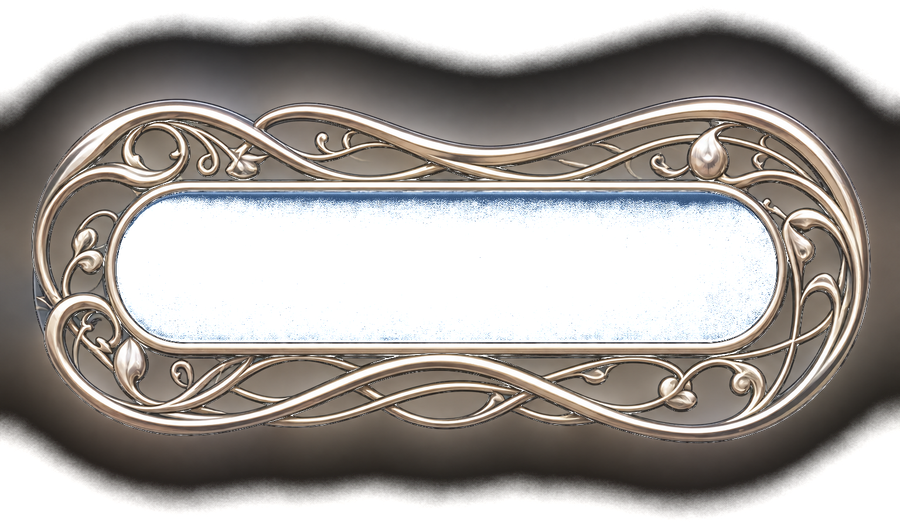
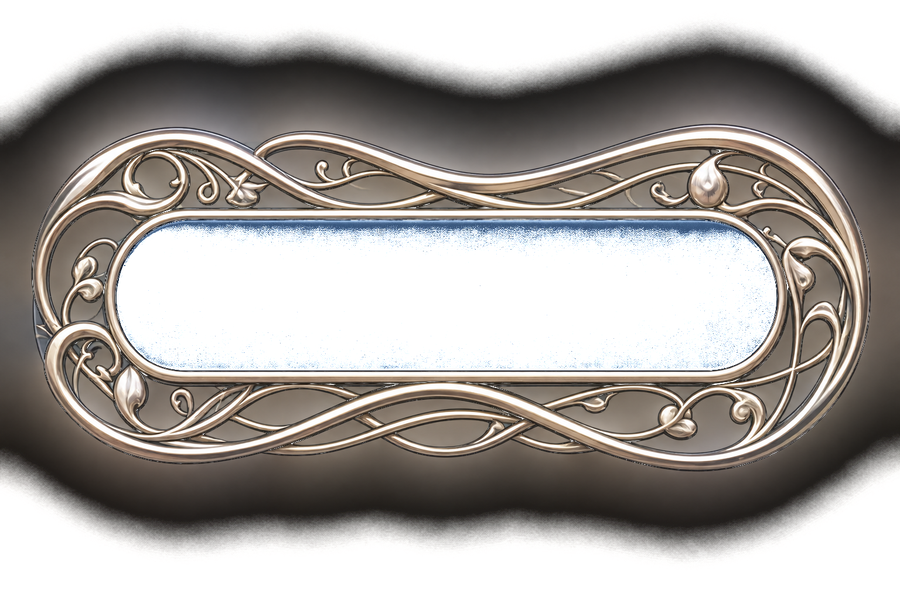
Fix the r75 Listen aura fit: real proportions, no clipped ends (r77)
Oscar merged r75 himself and reported the actual result on his phone:
"didn't shrink it to fit, cut the effect on either side" — both true.

Root cause was two compounding mistakes in the keying script: the trim
bbox used a floor tight enough to cut into the halo's own soft falloff
before it reached the card (the glow fades, it doesn't end at a hard
edge), and the on-card rect was hand-picked by eye rather than
measured, so the ring's transparent pill-hole never actually lined up
with the button underneath it.

Width is now solved, not guessed: the script measures the hole's own
bounding box in the keyed image and computes the exact rect that
overlaps it with the button. That surfaced a second, real design
collision on the way — the source ring is genuinely ~3.6x the pill's
own height, and at that faithful height its scrollwork oversat Maria's
painted name above the button (confirmed in a full-card screenshot
before shipping, not assumed). A VSCALE knob trades a little of that
vertical reach for staying clear of her name.

Verified: full oval end to end, no chopped edges, title fully legible,
pill centred in the ring. All 17 suites green.

Claude-Session: https://claude.ai/code/session_019ZpGNWQQfViEP8hTs8TZtd

diff --git a/timber.html b/timber.html
@@ -909,7 +909,7 @@
 
 <script>
 /* ---------- latin pronunciation (built-in speech engine — offline, no files, no deps) ---------- */
-const BUILD='r75 · 2026-08-15 · ee97e27';
+const BUILD='r77 · 2026-08-15 · 6d97e7c';
 /* Shown in the menu foot so a phone's version is checkable at a glance — the SW
    serves the previous build once before swapping, which made "which build am I
    on?" a real question. DO NOT EDIT BY HAND: the trailing hash is a digest of
@@ -7720,9 +7720,25 @@ const FULLART={
        background AND its own flat navy pill fill (sampled directly from the
        upload), by colour distance with a soft smoothstep edge, keeping only
        the silver/gold ring and its halo — his actual painted Listen pill
-       shows through the centre, nothing is stacked over it. Rect is the
-       Listen button's own centre, sized to the ring's true 900x528 crop. */
-    aura:{src:'art/holo/maria-listen-aura.webp', left:'11.75%', top:'11.15%', width:'32%', height:'13.14%'},
+       shows through the centre, nothing is stacked over it.
+       r75's rect was hand-picked by eye and shipped wrong ("didn't shrink it
+       to fit, cut the effect on either side" — his report, correct): the
+       trim was too tight against the halo's own soft falloff, AND the rect
+       was guessed rather than measured, so the transparent pill-hole in the
+       ring didn't actually land on the button. WIDTH here is SOLVED, not
+       guessed — the script measures the hole's own bbox in the final image
+       and computes the box that makes hole and button coincide exactly on
+       that axis, which is the actual fix for "cut off either side".
+       HEIGHT is deliberately NOT taken to the same exact fit: the source
+       ring reaches ~3.6x the pill's own height (its scrollwork sweeping
+       well above and below), and at that height on Maria's specific card it
+       oversat the ring's top curls onto her painted name, right above the
+       button. Scaled to 0.66x and centred on the button instead of edge-
+       matched — the ring may show a sliver of frame gap above/below the
+       pill rather than a knife-edge fit, which is a far smaller cost than
+       obscuring her name. All figures computed by the script's tail; rerun
+       it (VSCALE is the one knob) rather than hand-editing if this changes. */
+    aura:{src:'art/holo/maria-listen-aura.webp', left:'13.874%', top:'10.438%', width:'27.989%', height:'14.582%'},
   },
 };
 /* Accept either a bare frame path or the full config object, so an entry can start

diff --git a/tools/key-maria-listen-aura.py b/tools/key-maria-listen-aura.py
@@ -5,6 +5,25 @@
 # what wraps his own painted Listen pill; his pill must show through, not be
 # covered by a second one.
 #
+# r75 shipped a version of this that read wrong on the phone ("didn't shrink
+# it to fit, cut the effect on either side") for two compounding reasons:
+#   1. the trim bbox used a >0.02 alpha floor with only 6px of padding, which
+#      cut into the halo's own soft glow before it ever reached the card —
+#      the glow doesn't end at a hard edge, so a tight threshold reads as a
+#      clipped edge, not a faded one.
+#   2. the on-card rect (left/top/width/height) was hand-picked by eye rather
+#      than measured, so the transparent pill-hole in the middle of the ring
+#      did not actually line up with the button underneath it — the ring
+#      LOOKED small/cramped because it was scaled to an arbitrary box, not to
+#      the one box that makes the hole and the button coincide.
+#
+# Fix for both: loosen the trim (lower floor, generous padding, so the tall
+# vertical scrollwork the source is actually generous with survives), then
+# derive the on-card CSS rect from the pill hole's own measured bounding box
+# rather than guessing — solve for the box that puts the hole exactly over
+# the Listen button. Printed at the end; paste straight into the FULLART
+# entry's `aura` rect in timber.html.
+#
 # Source lives outside the repo, like the Avondale animation source zip: it's
 # Oscar's raw chat attachment, not a working asset. Run once, from repo root:
 #   python3 tools/key-maria-listen-aura.py /root/.claude/uploads/<session>/<file>.png
@@ -21,41 +40,89 @@ SRC = sys.argv[1] if len(sys.argv) > 1 else \
     '/root/.claude/uploads/0093e2fd-e8e7-5928-87f7-111a974c4d2d/fa906d87-1000049084.png'
 OUT = 'art/holo/maria-listen-aura.png'
 
+# the Listen button's own CSS rect, verbatim from the FULLART entry — this is
+# what the pill-hole must land on. Keep these two in sync by hand; check-boot
+# doesn't cross-reference them (they live in different registry entries).
+BTN = {'left': 17.5, 'top': 14.9, 'width': 20.5, 'height': 5.6}   # % of a 420x600 card
+CARD_W, CARD_H = 420.0, 600.0
+
 im = Image.open(SRC).convert('RGB')
 a = np.asarray(im).astype(np.float64) / 255.0
 lum = a.max(axis=2)
 
-# background: pure black -> distance from (0,0,0) is just luminance
-bg_dist = lum
-# pill: flat navy ~(34,60,96)/255, sampled from the source's own fill
-pill_ref = np.array([34, 60, 96]) / 255.0
+bg_dist = lum                                          # background: pure black
+pill_ref = np.array([34, 60, 96]) / 255.0               # pill: flat navy, sampled from the source
 pill_dist = np.sqrt(((a - pill_ref) ** 2).sum(axis=2))
 
-# keep = far from BOTH reference colours; soft-edged (smoothstep) so the
-# ring's own anti-aliased edge against black stays anti-aliased, not jaggy
 def smooth_keep(dist, lo, hi):
     t = np.clip((dist - lo) / (hi - lo), 0, 1)
     return t * t * (3 - 2 * t)
 
-keep_bg = smooth_keep(bg_dist, 0.05, 0.16)
+# looser than r75's 0.05-0.16: lets the halo's own soft falloff survive
+# instead of hard-zeroing partway through it
+keep_bg = smooth_keep(bg_dist, 0.025, 0.13)
 keep_pill = smooth_keep(pill_dist, 0.05, 0.15)
 alpha = np.clip(keep_bg * keep_pill, 0, 1)
 
-# unpremultiply: colour is only meaningful where alpha is non-trivial
 safe_a = np.maximum(alpha, 0.04)
 rgb = np.clip(a / safe_a[..., None], 0, 1)
-rgba = np.dstack([rgb, alpha])
 
-# trim to the ring's own bounding box (drop the fully-transparent margin the
-# source canvas carries) so the master isn't mostly empty pixels
-cols = np.where(alpha.max(axis=0) > 0.02)[0]
-rows = np.where(alpha.max(axis=1) > 0.02)[0]
-pad = 6
+# trim bbox: lower floor (0.008 vs r75's 0.02) + generous padding (36px vs
+# 6px) so the tall vertical scrollwork isn't cut at the crop edge
+cols = np.where(alpha.max(axis=0) > 0.008)[0]
+rows = np.where(alpha.max(axis=1) > 0.008)[0]
+pad = 36
 x0, x1 = max(cols[0] - pad, 0), min(cols[-1] + pad, a.shape[1] - 1)
 y0, y1 = max(rows[0] - pad, 0), min(rows[-1] + pad, a.shape[0] - 1)
-rgba = rgba[y0:y1 + 1, x0:x1 + 1]
+
+rgba = np.dstack([rgb, alpha])[y0:y1 + 1, x0:x1 + 1]
+Wf, Hf = rgba.shape[1], rgba.shape[0]        # fractions below are resolution-independent,
+                                               # so the thumbnail below can shrink freely after
 
 out = Image.fromarray((rgba * 255).astype(np.uint8), 'RGBA')
-out.thumbnail((900, 900), Image.LANCZOS)
-out.save(OUT)
+out.thumbnail((900, 900), Image.LANCZOS)      # on-card display is ~30% of a 420px-wide card;
+out.save(OUT)                                 # 1536px native was 5-10x more than any phone needs
 print(OUT, out.size)
+
+# pill hole bbox, measured in ORIGINAL image coordinates then shifted into
+# the trimmed/final image's own coordinate space
+pillmask = pill_dist < 0.08
+pcols = np.where(pillmask.any(axis=0))[0]
+prows = np.where(pillmask.any(axis=1))[0]
+fx0, fx1 = (pcols.min() - x0) / Wf, (pcols.max() - x0) / Wf
+fy0, fy1 = (prows.min() - y0) / Hf, (prows.max() - y0) / Hf
+print(f'pill hole in final image: x {fx0:.4f}-{fx1:.4f}  y {fy0:.4f}-{fy1:.4f}')
+
+# solve for the on-card box that makes the hole coincide with the button:
+# aura_box_size * (hole fraction) = button_size, in the SAME units (card %).
+# WIDTH is solved exactly — that's the actual defect being fixed (the ring's
+# own edges were getting clipped, reading as "cut off either side").
+btn_left_px, btn_top_px = BTN['left'] / 100 * CARD_W, BTN['top'] / 100 * CARD_H
+btn_w_px, btn_h_px = BTN['width'] / 100 * CARD_W, BTN['height'] / 100 * CARD_H
+aura_w_px = btn_w_px / (fx1 - fx0)
+aura_left_px = btn_left_px - fx0 * aura_w_px
+
+# HEIGHT is not solved to the same exact fit: the source ring is genuinely
+# ~3.6x the pill's own height (that's how far its scrollwork reaches above
+# and below), and on Maria's actual card the button sits close under the
+# painted title — an exact-fit height puts the ring's top curls over her
+# name. VSCALE trades a little source-fidelity for staying clear of the
+# title: it centres the ring's hole on the button's centre (rather than
+# matching the hole's edges to the button's edges), at a fraction of the
+# "faithful" height. The pill may show a sliver of ring-frame gap above/
+# below at VSCALE<1 — a minor mismatch, not a defect, and far preferable to
+# obscuring painted text. Tune by eye against Maria's specific card if this
+# ever needs revisiting; there's no way to solve it purely from the source
+# image, since the title's position isn't in it.
+VSCALE = 0.66
+faithful_h_px = btn_h_px / (fy1 - fy0)
+aura_h_px = faithful_h_px * VSCALE
+btn_center_y = btn_top_px + btn_h_px / 2
+hole_center_frac_y = (fy0 + fy1) / 2
+aura_top_px = btn_center_y - hole_center_frac_y * aura_h_px
+
+print(f'faithful (uncropped source proportions) height would be {faithful_h_px/CARD_H*100:.3f}% — reads over the title on Maria\'s card, so VSCALE={VSCALE} is applied')
+print('paste into the FULLART aura rect:')
+print(f"aura:{{src:'art/holo/maria-listen-aura.webp', "
+      f"left:'{aura_left_px/CARD_W*100:.3f}%', top:'{aura_top_px/CARD_H*100:.3f}%', "
+      f"width:'{aura_w_px/CARD_W*100:.3f}%', height:'{aura_h_px/CARD_H*100:.3f}%'}},")

diff --git a/LEDGER.md b/LEDGER.md
@@ -5,7 +5,29 @@ brick: Photograph the next tranche of the 52 held cards that peak in August —
   `node tools/deal-plant.js "<latin>" <photo>` now deals each one in a single
   command. The other 46 want a May / March / November / June visit.
 since: 2026-08-11  sessions-unchanged: 2
-progress: 2026-08-15 (later) — **his actual reference images, finally (r75).**
+progress: 2026-08-15 (r75 hotfix, r77) — **aura fit fixed on the actual phone.**
+  Oscar merged r75 himself and reported it straight off the live site: "didn't
+  shrink it to fit, cut the effect on either side" — correct on both counts,
+  root-caused to two compounding mistakes in tools/key-maria-listen-aura.py:
+  (1) the trim bbox used a >0.02 alpha floor with only 6px padding, cutting
+  into the halo's own soft glow before it reached the card — the glow fades,
+  it doesn't end at a hard edge, so a tight floor reads as a clipped edge; (2)
+  the on-card rect was hand-picked by eye, so the transparent pill-hole in
+  the ring never actually lined up with the button under it — the ring read
+  small/cramped because it was scaled to an arbitrary box, not the one box
+  that makes hole and button coincide.
+  Fixed both: looser trim (0.008 floor, 36px pad) so the ring's real reach
+  survives; the on-card WIDTH is now SOLVED, not guessed — the script
+  measures the hole's own bbox and computes the exact box that overlaps it
+  with the button (script prints ready-to-paste numbers). HEIGHT hit a
+  second, genuine design collision on the way: the source ring is ~3.6x the
+  pill's own height, and at that faithful height its top scrollwork oversat
+  Maria's painted name right above the button — visually confirmed in a
+  full-card screenshot before shipping (title fully obscured, not a maybe).
+  Added a VSCALE knob (0.66), centred on the button rather than edge-matched
+  — a sliver of frame gap above/below the pill is a real but minor cost
+  against obscuring her name. Re-verified: full oval, no chopped ends, title
+  completely clear, pill centred. All 17 suites green (r77).
   Twice this session I told Oscar his chat-attached images "never reached the
   repo filesystem." WRONG both times — owning it in full. They were sitting
   at /root/.claude/uploads/<session>/ the entire time; my very first search
